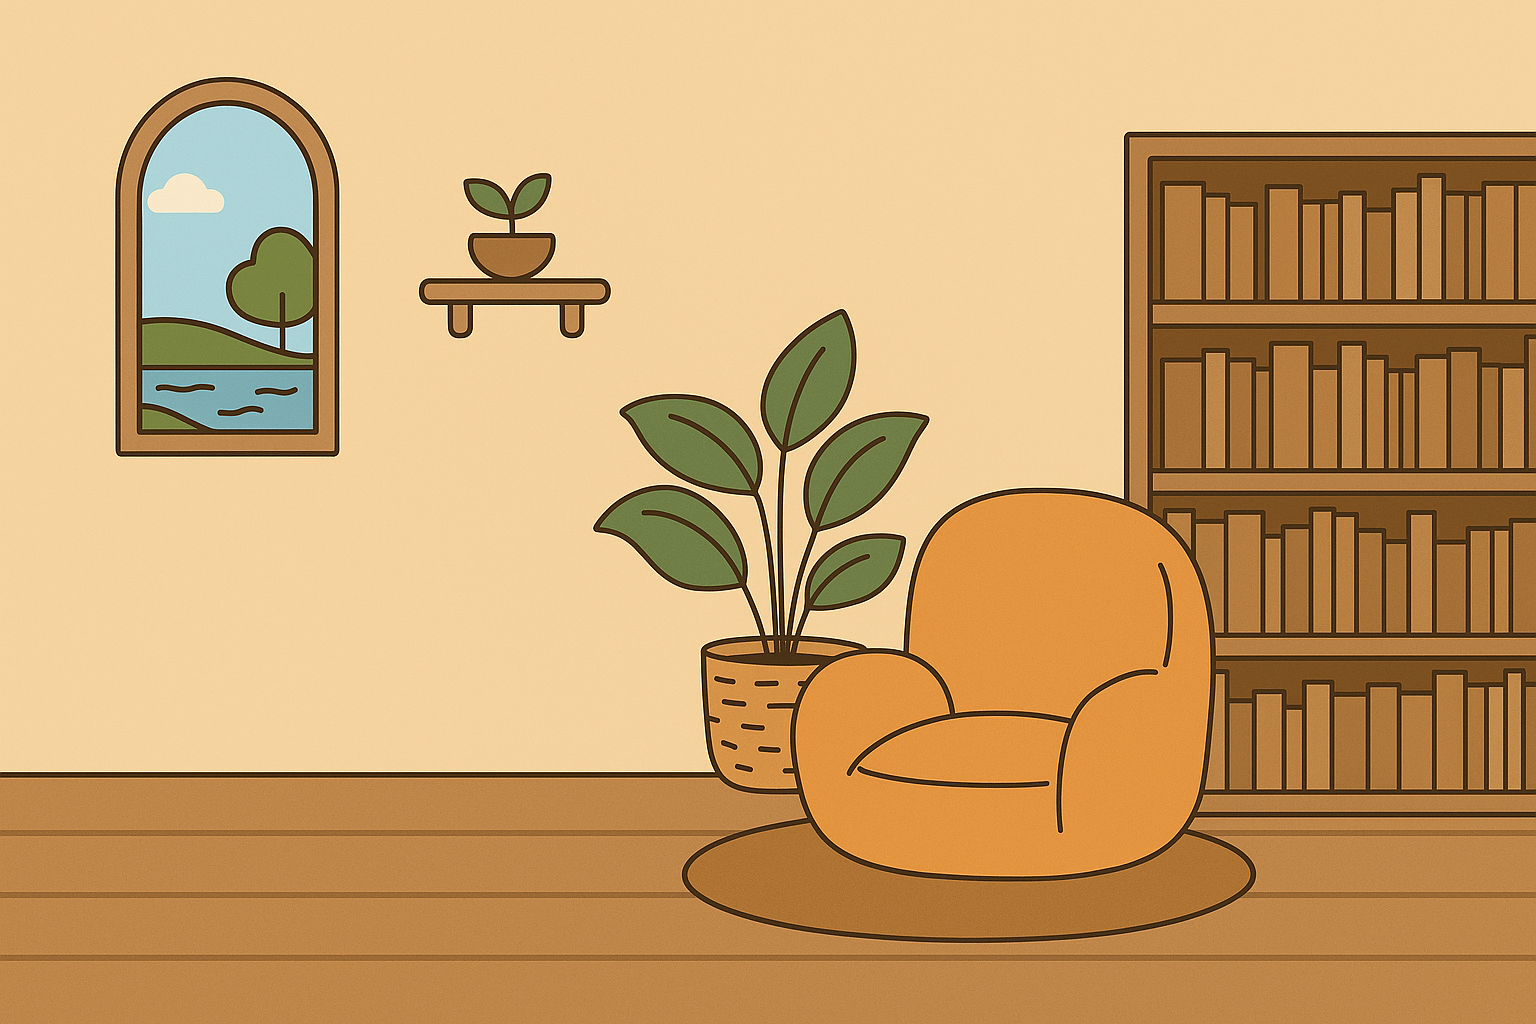
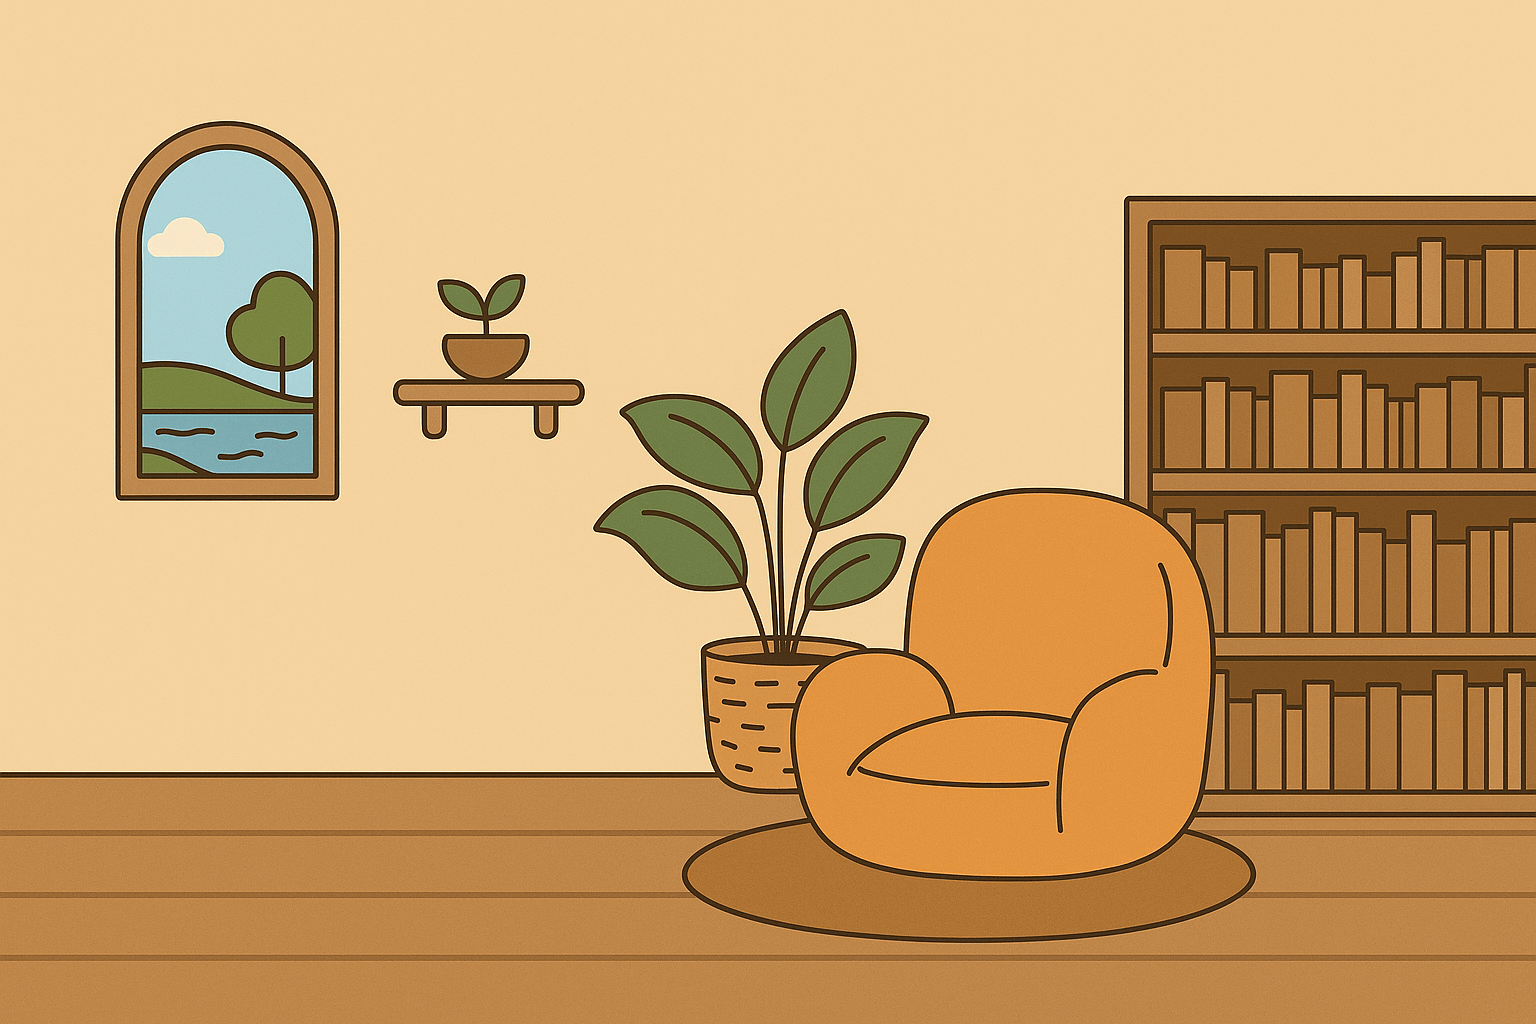
change night mode: remove bg-img-night and add filter

Changed region(s): [[0.7188, 0.125, 1.0, 0.4062], [0.0625, 0.0625, 0.2188, 0.5], [0.25, 0.1562, 0.4062, 0.4375]]

diff --git a/src/layouts/MainLayout.vue b/src/layouts/MainLayout.vue
@@ -1,10 +1,12 @@
 <template>
   <q-layout view="lHh Lpr lFf" class="background-container" ref="containerRef">
+    <h1 class="h1">Duck Studio</h1>
     <img
       ref="bgRef"
       :alt="isDark ? 'Night background' : 'Day background'"
-      :src="isDark ? nightImage : dayImage"
+      :src="dayImage"
       class="background-image"
+      :class="{ 'dark-mode': isDark }"
       @load="positionDuck"
     />
 
@@ -37,7 +39,6 @@ import PhaseTracker from 'src/components/PhaseTracker.vue'
 import { useQuasar } from 'quasar'
 import { computed } from 'vue'
 import dayImage from '/assets/background-day.png'
-import nightImage from '/assets/background-night.png'
 
 const $q = useQuasar()
 const isDark = computed(() => $q.dark.isActive)
@@ -56,8 +57,8 @@ const duckStyle = reactive({ top: '0px', left: '0px' })
 // Positioning constants
 // These values are based on the design mockup
 // Adjust these values to position the duck correctly
-const anchorX = 0.605
-const anchorY = 0.835
+const anchorX = 0.606
+const anchorY = 0.837
 
 function positionDuck() {
   const img = bgRef.value
@@ -82,7 +83,11 @@ onBeforeUnmount(() => {
 })
 </script>
 
-<style>
+<style lang="scss">
+.h1 {
+  text-align: center;
+  font-weight: 600;
+}
 .background-container {
   position: relative;
   width: 100%;
@@ -90,8 +95,16 @@ onBeforeUnmount(() => {
   overflow: hidden;
 }
 .background-image {
+  position: absolute;
+  top: 0;
+  left: 0;
   width: 100%;
   height: 100%;
   object-fit: cover;
+  z-index: -1;
+  /* transition: filter 0.6s ease-in-out; */
+}
+.dark-mode {
+  filter: hue-rotate(180deg) saturate(1.5) brightness(55%);
 }
 </style>

diff --git a/src/components/DuckView.vue b/src/components/DuckView.vue
@@ -35,7 +35,7 @@ const duckImage = computed(() => {
 <style scoped>
 .duck {
   position: absolute;
-  width: 270px;
+  width: 310px;
   transform: translate(-50%, -100%);
   pointer-events: none;
   z-index: 2;

diff --git a/src/css/app.scss b/src/css/app.scss
@@ -1,1 +1,7 @@
 // app global css in SCSS form
+
+body.body--light {
+  color: $brown-9;
+}
+
+// body.body--dark {}
